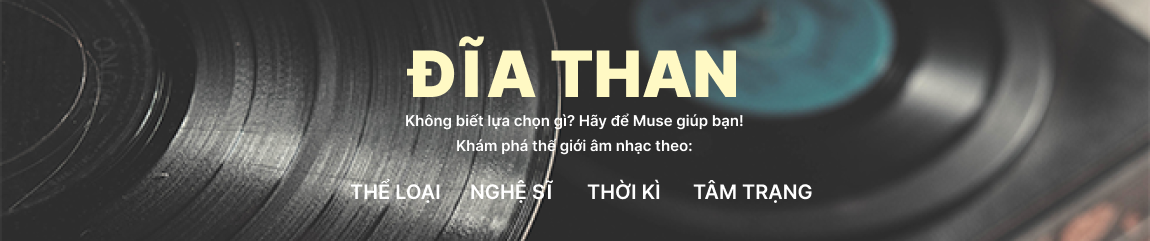
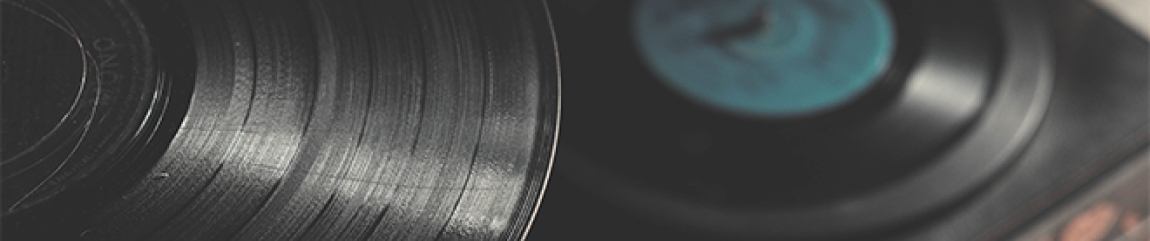
Hoang update vinyl

diff --git a/wwwroot/css/vinyl.css b/wwwroot/css/vinyl.css
@@ -4,19 +4,13 @@
   padding-bottom: 4rem;
 }
 
-.vinyl-img-top{
-    align-items: center;
-    justify-content: center;
-    width: 100%;
-}
-
 .vinyl-title{
     justify-content: center;
     text-align: center;
     display: flex;
 }
 
-.vinyl-title h1{
+.vinyl-title a{
     margin-left: 30px;
     display: flex;
     border: none;
@@ -26,7 +20,67 @@
     font-weight: 800;
     line-height: 38.73px;
     text-align: center;
+    color: #000000 !important;
 }
+
+.vinyl-header {
+    position: relative;
+    background-image: url('/images/vinyl-header.png'); /* Đường dẫn tới hình ảnh của bạn */
+    background-size: cover;
+    background-position: center;
+    height: 300px;
+    color: #fff;
+    text-align: center;
+    display: flex;
+    align-items: center;
+    justify-content: center;
+    overflow: hidden;
+  }
+
+  .vinyl-header::before {
+    content: "";
+    position: absolute;
+    top: 0;
+    left: 0;
+    width: 100%;
+    height: 100%;
+    background-color: rgba(0, 0, 0, 0.2); /* Lớp phủ tối với độ trong suốt */
+    z-index: 1;
+}
+  
+  .vinyl-header .overlay {
+    padding: 20px;
+    width: 100%;
+    position: relative;
+    z-index: 2; /* Đặt nội dung lên trên lớp phủ */
+    padding: 20px;
+    width: 100%;
+  }
+  
+  .vinyl-header h1 {
+    font-size: 48px;
+    font-weight: bold;
+    margin: 0;
+    color: #f9e547; /* Màu vàng nhạt */
+  }
+  
+  .vinyl-header p {
+    margin: 10px 0 20px;
+    font-size: 18px;
+    line-height: 1.5;
+  }
+  
+  .vinyl-header nav a {
+    margin: 0 10px;
+    color: #fff;
+    text-decoration: none;
+    font-size: 16px;
+    font-weight: bold;
+  }
+  
+  .vinyl-header nav a:hover {
+    text-decoration: underline;
+  }
 
 /*---------------------------------------
   FILTER               
